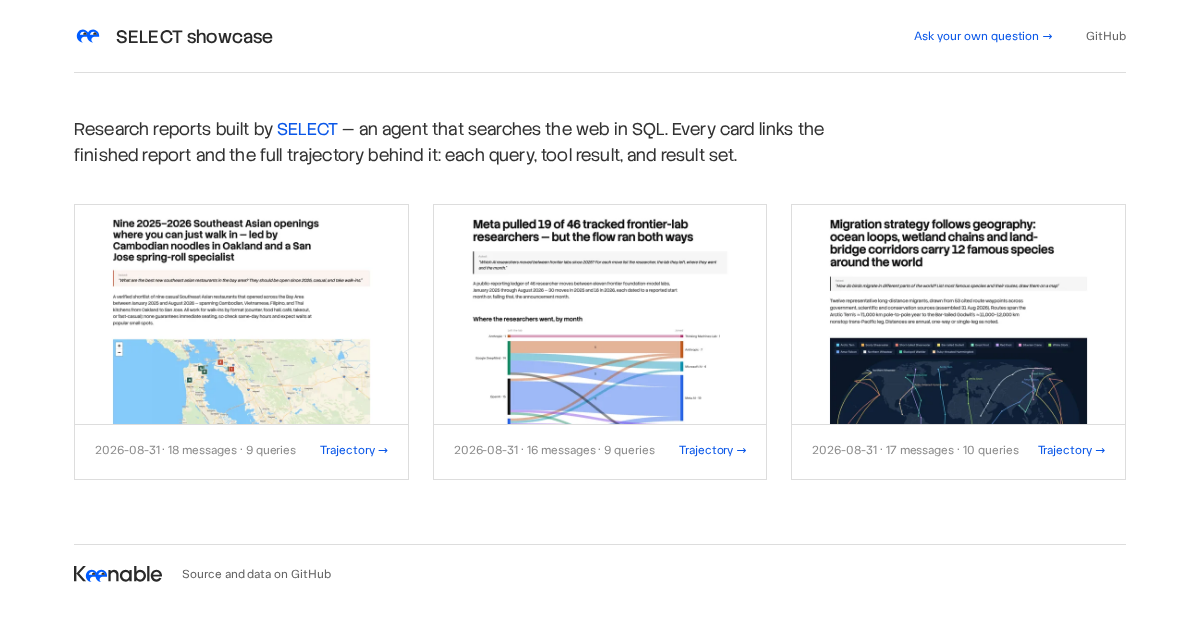
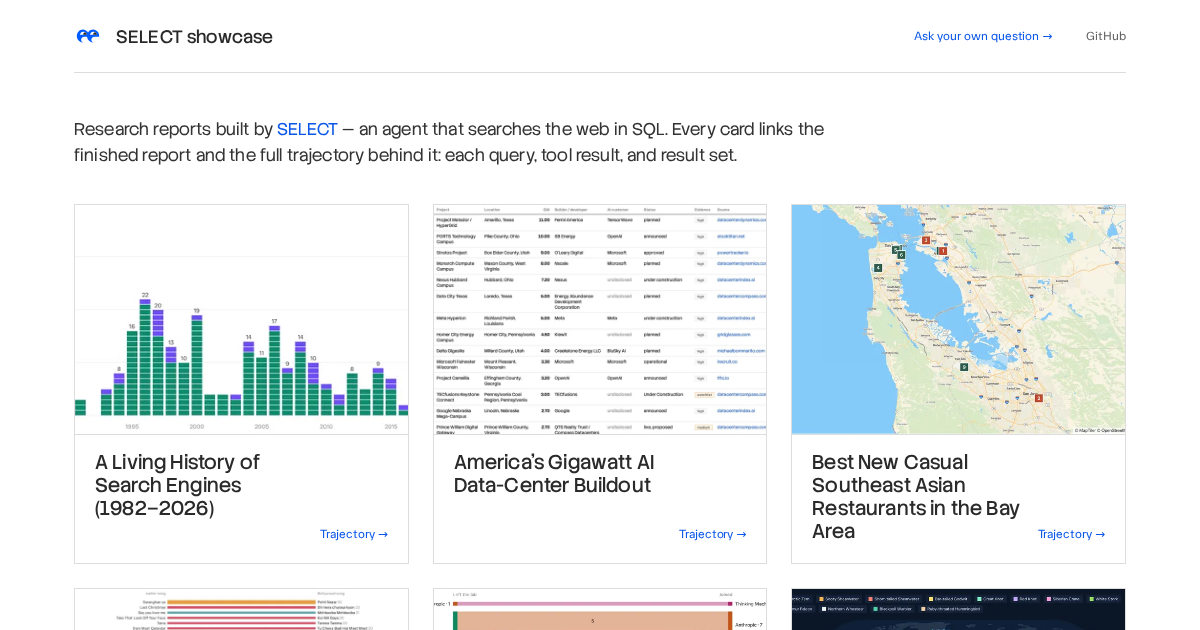
OG-style cards: lead visual and title, linking the original report
Cards show the report's hero figure (extracted with og-render's picker,
stored as hero.png) and the title; both link to the live report on
select.keenable.ai, as does the trajectory page's report link. The
local iframe report shell is gone.

diff --git a/scripts/build_site.py b/scripts/build_site.py
@@ -57,13 +57,6 @@ header.site a.gh{font-family:'TASA Orbiter',system-ui;font-size:12px;
   letter-spacing:-.004em;color:#646464;margin-left:20px}
 header.site a.ask{color:#0A57E8}
 .intro{max-width:760px;margin-bottom:36px;font-size:17px;color:#333}
-body.framed{display:flex;flex-direction:column;height:100vh}
-.wrap.bar{width:100%;padding-bottom:0}
-.wrap.bar header.site{margin-bottom:0}
-.frame{flex:1;width:100%;border:0;display:block}
-footer.site.foot{margin:0;padding:14px 0 18px;gap:12px}
-footer.site.foot .spacer{flex:1}
-footer.site.foot a.traj{color:#0A57E8}
 h1.small{font-size:28px;line-height:1.05}
 h1{font-weight:400;font-size:52px;line-height:.9;letter-spacing:0;
   margin-bottom:20px;max-width:900px}
@@ -73,13 +66,14 @@ h1{font-weight:400;font-size:52px;line-height:.9;letter-spacing:0;
 .cards{display:grid;grid-template-columns:repeat(auto-fill,minmax(320px,1fr));gap:24px}
 .card{background:#fff;border:1px solid #DDDDDD;padding:0 0 20px;
   display:flex;flex-direction:column}
-.card .shot{display:block;width:100%;height:220px;object-fit:cover;object-position:top;
+.card .shot{display:block;width:100%;height:230px;object-fit:cover;object-position:top;
   border-bottom:1px solid #DDDDDD;background:#F9F9F9}
-.card .noshot{height:220px;border-bottom:1px solid #DDDDDD;background:#F9F9F9}
+.card .noshot{height:230px;border-bottom:1px solid #DDDDDD;background:#F9F9F9}
 .card-foot{display:flex;justify-content:space-between;align-items:baseline;
-  gap:12px;margin:16px 20px 0}
-.card-foot a.traj{color:#0A57E8}
-.card .meta{margin:0 20px}
+  gap:14px;margin:16px 20px 0;flex:1}
+.card-foot h2{font-weight:400;font-size:20px;line-height:1.15;margin:0}
+.card-foot h2 a{color:#2A2A2A}
+.card-foot a.traj{color:#0A57E8;white-space:nowrap;align-self:flex-end}
 .msg{border:1px solid #DDDDDD;margin:0 0 -1px}
 .msg-head{padding:8px 16px;border-bottom:1px solid #DDDDDD;background:#F9F9F9}
 .msg-user .msg-head{background:#DAEBFF}
@@ -274,17 +268,6 @@ def page(
     )
 
 
-def frame_page(title: str, frame_src: str, root: str, foot: str, description: str = "") -> str:
-    foot_bar = f'<div class="wrap bar"><footer class="site foot">{foot}</footer></div>' if foot else ""
-    return (
-        f'{page_head(title, root, description)}<body class="framed">'
-        f'<div class="wrap bar">{site_header(root)}</div>'
-        f'<iframe class="frame" src="{frame_src}" title="{esc(title)}"></iframe>'
-        f"{foot_bar}"
-        "</body></html>\n"
-    )
-
-
 def brand_css() -> str:
     latin = (
         "U+0000-00FF, U+0131, U+0152-0153, U+02BB-02BC, U+02C6, U+02DA, U+02DC, U+0304,"
@@ -323,13 +306,14 @@ def copy_assets() -> None:
         shutil.copyfile(ASSETS / "og.png", DOCS / "og.png")
 
 
-def write_thumb(src: Path, dest: Path) -> None:
-    with Image.open(src) as preview:
-        scale = THUMB_WIDTH / preview.width
-        crop_height = min(preview.height, round(THUMB_HEIGHT / scale))
-        top = preview.crop((0, 0, preview.width, crop_height))
+def write_thumb(src: Path, dest: Path) -> tuple[int, int]:
+    with Image.open(src) as source:
+        scale = THUMB_WIDTH / source.width
+        crop_height = min(source.height, round(THUMB_HEIGHT / scale))
+        top = source.crop((0, 0, source.width, crop_height))
         thumb = top.resize((THUMB_WIDTH, round(crop_height * scale)), Image.LANCZOS)
         thumb.save(dest, "WEBP", quality=82)
+        return thumb.width, thumb.height
 
 
 def load_result_sets(src: Path, out: Path) -> dict[str, dict]:
@@ -353,24 +337,25 @@ def build_report(slug: str) -> dict:
 
     out = DOCS / slug
     out.mkdir(parents=True, exist_ok=True)
-    shutil.copyfile(src / "report.html", out / "report_frame.html")
-    has_preview = (src / "preview.png").exists()
-    if has_preview:
-        write_thumb(src / "preview.png", out / "preview_thumb.webp")
+    thumb_src = next(
+        (src / name for name in ("hero.png", "preview.png") if (src / name).exists()), None
+    )
+    thumb_size = (
+        write_thumb(thumb_src, out / "thumb.webp") if thumb_src is not None else None
+    )
     result_sets = load_result_sets(src, out)
 
     title = meta["artifact"]["title"]
-    question = (meta.get("conversation") or {}).get("title") or ""
+    report_url = meta["report_url"]
     n_queries = sum(len(m.get("tool_calls") or []) for m in transcript)
     body = (
         f'<h1 class="small">{esc(title)}</h1>'
         f'<p class="sub label">Trajectory — {len(transcript)} messages, {n_queries} tool calls'
-        f' &middot; <a href="report.html">report</a>'
+        f' &middot; <a href="{report_url}">report</a>'
         f' &middot; <a href="../index.html">all reports</a></p>'
         + "".join(render_message(m, result_sets) for m in transcript)
     )
     scripts = f'<script src="{HLJS_JS}"></script><script>hljs.highlightAll()</script>'
-    foot = ""
     if transcript:
         (out / "trajectory.html").write_text(
             page(
@@ -382,45 +367,37 @@ def build_report(slug: str) -> dict:
                 " tool result, and result set.",
             )
         )
-        foot = (
-            f'<span class="label">{len(transcript)} messages &middot; {n_queries} queries'
-            f' behind this report</span><span class="spacer"></span>'
-            f'<a class="traj label" href="trajectory.html">Trajectory &rarr;</a>'
-        )
-    (out / "report.html").write_text(
-        frame_page(title, "report_frame.html", root="../", foot=foot, description=question)
-    )
     return {
         "slug": slug,
+        "title": title,
+        "report_url": report_url,
         "created_at": meta["artifact"]["created_at"][:10],
-        "n_messages": len(transcript),
-        "n_queries": n_queries,
-        "has_preview": has_preview,
+        "has_trajectory": bool(transcript),
+        "thumb_size": thumb_size,
     }
 
 
 def build_index(entries: list[dict]) -> None:
     cards = []
     for e in sorted(entries, key=lambda e: e["created_at"], reverse=True):
-        shot = (
-            f'<a href="{e["slug"]}/report.html">'
-            f'<img class="shot" src="{e["slug"]}/preview_thumb.webp" alt=""'
-            f' loading="lazy" width="{THUMB_WIDTH}" height="{THUMB_HEIGHT}"></a>'
-            if e["has_preview"]
-            else '<div class="noshot"></div>'
-        )
-        if e["n_messages"]:
-            stats = (
-                f'{e["created_at"]} &middot; {e["n_messages"]} messages'
-                f' &middot; {e["n_queries"]} queries'
+        if e["thumb_size"] is not None:
+            width, height = e["thumb_size"]
+            shot = (
+                f'<a href="{e["report_url"]}">'
+                f'<img class="shot" src="{e["slug"]}/thumb.webp" alt=""'
+                f' loading="lazy" width="{width}" height="{height}"></a>'
             )
-            traj = f'<a class="traj label" href="{e["slug"]}/trajectory.html">Trajectory &rarr;</a>'
         else:
-            stats = e["created_at"]
-            traj = ""
+            shot = '<div class="noshot"></div>'
+        traj = (
+            f'<a class="traj label" href="{e["slug"]}/trajectory.html">Trajectory &rarr;</a>'
+            if e["has_trajectory"]
+            else ""
+        )
         cards.append(
             f'<div class="card">{shot}'
-            f'<div class="card-foot"><span class="label">{stats}</span>{traj}</div></div>'
+            f'<div class="card-foot"><h2><a href="{e["report_url"]}">{esc(e["title"])}</a></h2>'
+            f"{traj}</div></div>"
         )
     body = (
         '<p class="intro">Research reports built by'
